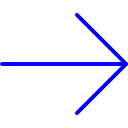
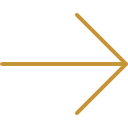
oooo

Changed region(s): [[0.0, 0.0938, 1.0, 0.9062]]

diff --git a/css/bundle-sass.css b/css/bundle-sass.css
@@ -1,1 +1,1 @@
-#info div.section img,#intro,#success,footer div ul li i,section#portfolio ul li div.status i,section#portfolio ul li img{transition:all .2s ease-in}header #mobile-nav span,section#portfolio ul li h2,section.single-project h2{text-transform:uppercase;font-weight:100}header{text-align:center}header nav#main-nav{position:fixed;top:0;width:100%;z-index:9999;font-family:"PT Mono",monospace;letter-spacing:4px}header nav#main-nav a{position:fixed;font-size:.8rem;padding:0 0 10px}@media only screen and (min-width:1224px) and (max-device-width:1824px){header nav#main-nav a{font-size:.7rem}}@media only screen and (min-device-width:768px) and (max-device-width:1024px){header nav#main-nav a{font-size:.7rem}}header nav#main-nav a.top-left{top:40px;left:60px}header nav#main-nav a.top-right{top:40px;right:60px}header nav#main-nav a.bottom-right{bottom:40px;right:60px}header nav#main-nav a.bottom-left{bottom:80px;left:40px;transform:rotate(-90deg)}header #mobile-nav{display:none;padding:5%}header #mobile-nav h1{position:absolute;z-index:1;top:20px;left:20px;color:#fff;text-align:left}header #mobile-nav h1 span{font-size:50%;font-family:Lato,sans-serif;vertical-align:middle}#info div.section article ul,header #mobile-nav span{font-family:"PT Mono",monospace}header #mobile-nav span{margin-top:20px;font-size:1.5rem;line-height:.8}header nav#projects-nav ul img{width:30px;transition:all .2s ease-in}@media only screen and (min-width:1224px) and (max-device-width:1824px){header nav#projects-nav ul img{width:20px}}@media only screen and (min-device-width:320px) and (max-device-width:740px){header{background:#00F;color:#fff;height:100px}header nav#main-nav{display:none}header #mobile-nav{display:block}header nav#projects-nav ul img{width:20px}}header nav#projects-nav ul li.prev{position:fixed;left:5%;top:50%;padding:2%}header nav#projects-nav ul li.prev img:hover{transform:scale(1) rotate(0) translateX(-10px) translateY(0) skewX(0) skewY(0)}header nav#projects-nav ul li.next{position:fixed;right:5%;top:50%;padding:2%}header nav#projects-nav ul li.next img:hover{transform:scale(1) rotate(0) translateX(10px) translateY(0) skewX(0) skewY(0)}#info div.section{height:100vh}@media only screen and (min-device-width:320px) and (max-device-width:740px){#info div.section{height:auto;margin-bottom:50px}}#info div.section:last-child{height:50vh}#info div.section p{position:relative;text-align:justify;margin:10% 0;padding:2%}@media only screen and (min-device-width:320px) and (max-device-width:740px){#info div.section:last-child{height:auto}#info div.section p{margin:5% 0;font-size:95%}}#info div.section p:first-child{margin-top:0}#info div.section p span#brand{font-size:4rem;text-transform:uppercase}#info div.section q{font-style:italic;padding:2%}#info div.section h3,#info div.section h4{display:inline-block;text-transform:uppercase;letter-spacing:2px;line-height:1.5;background:#00F;color:#fff;padding:1%}@media only screen and (min-device-width:320px) and (max-device-width:740px){#info div.section p span#brand{font-size:2rem}#info div.section h3,#info div.section h4{font-size:.8rem}}#info div.section div.vertical-line{width:1px;height:400px;background:#00F;margin:40px auto auto}@media screen and (max-device-width:740px){#info div.section div.vertical-line{display:none}}@media only screen and (min-device-width:768px) and (max-device-width:1024px) and (orientation:portrait){#info div.section div.vertical-line{height:600px}}@media only screen and (min-device-width:768px) and (max-device-width:1024px){#info div.section div.vertical-line{display:none}}#info div.section article ul{letter-spacing:2px;font-size:90%;line-height:2;padding:0}#intro p,#success p,body,html{font-family:Lato,sans-serif}#info div.section img{display:block;margin:0 auto;height:30px}@media only screen and (min-device-width:320px) and (max-device-width:740px){#info div.section article ul{font-size:80%;padding:2%}#info div.section img{height:20px}}@media only screen and (min-width:1224px) and (max-device-width:1824px){#info div.section img{height:25px}}#info div.section img.down{margin-top:10%}#info div.section img.up{position:absolute;left:50%;top:0}#info div.section img.down:hover{transform:scale(1) rotate(0) translateX(0) translateY(10px) skewX(0) skewY(0)}#info div.section img.up:hover,footer div ul li i:hover{transform:scale(1) rotate(0) translateX(0) translateY(-10px) skewX(0) skewY(0)}#error #houston-nav,#error a#houston,#error h1,#error q,#error span#credits,#intro,#success,section#contact{left:50%;transform:translate(-50%,-50%)}#info div.section .img-wrapper{width:100%;margin-top:60px;margin-bottom:50px;display:-ms-flexbox;display:flex;-ms-flex-pack:justify;justify-content:space-between}#info div.section .img-wrapper img{height:30px}@media only screen and (min-device-width:320px) and (max-device-width:740px){#info div.section .img-wrapper{-ms-flex-direction:column;flex-direction:column}#info div.section .img-wrapper img{margin-bottom:40px}section#portfolio{overflow-x:hidden}}footer{display:none!important;position:fixed;top:44%;right:-20px;transform:rotate(90deg);-ms-flex-pack:justify;justify-content:space-between;font-size:1.2rem;letter-spacing:2px}footer p{margin:0}footer div ul{display:-ms-flexbox;display:flex;-ms-flex-pack:justify;justify-content:space-between}footer div ul li{margin-left:80px}section#portfolio ul li{height:100vh;text-align:center;display:inline-block;padding:0 20px;margin:0 40px 50px;transition:all .1s ease-in}section#portfolio ul li:last-child{height:50vh}section#portfolio ul li img{width:100%;border:1px solid #00F}section#portfolio ul li img:hover{box-shadow:0 21px 32px 0 rgba(0,0,255,.57)}section#portfolio ul li h2{letter-spacing:4px;font-size:1.4rem;margin-top:40px}@media only screen and (min-device-width:320px) and (max-device-width:740px){section#portfolio ul li{height:auto;margin:40px 0}section#portfolio ul li img{width:100%}section#portfolio ul li h2{font-size:1rem}}section#portfolio ul li div.status{display:none;text-transform:uppercase;letter-spacing:2px;font-size:80%}section#portfolio ul li div.status i:hover{opacity:.6}section#contact{text-align:center;position:absolute;margin-top:0;top:50%}@media only screen and (min-device-width:320px) and (max-device-width:568px) and (orientation:landscape){section#contact{position:relative;margin-top:25vh}}section#contact ul{line-height:3}section#contact ul li{font-size:1.5rem}section#contact ul li:first-child{font-size:4rem}@media only screen and (min-device-width:320px) and (max-device-width:680px){footer{display:none}section#contact ul{line-height:2}section#contact ul li:first-child{font-size:1.8rem}}@media only screen and (min-device-width:680px) and (max-device-width:768px){section#contact ul li:first-child{font-size:3.5rem}}@media only screen and (min-device-width:768px) and (max-device-width:1024px) and (orientation:portrait){section#contact ul li:first-child{font-size:3.6rem}}section#contact ul li a{border-bottom:2px solid rgba(0,0,255,0)}section#contact ul li a:hover{border-bottom:2px solid #00f}section#contact ul li a#formlink{font-size:1rem;font-style:normal;letter-spacing:4px;color:#fff;background:#00F}@media only screen and (min-device-width:320px) and (max-device-width:736px){section#contact ul li a#formlink{display:none}}section#contact ul li a#formlink:hover{opacity:.7}section#contact ul li i{font-size:1.5rem;margin-top:3%}section#contact ul li i:last-child{font-size:1rem}#intro,#success{width:90%;position:absolute;z-index:-1;top:50%}#intro p,#success p{padding:20px;text-transform:uppercase;font-size:4rem;letter-spacing:2px;text-align:center;line-height:1.5!important;webkit-hyphens:none;-ms-hyphens:none;-webkit-hyphens:none;hyphens:none}@media only screen and (min-device-width:320px) and (max-device-width:740px){#intro,#success{width:100%}#intro p,#success p{font-size:1.5rem;text-align:justify;letter-spacing:2px;padding:5vh}}#intro p i,#success p i{font-size:1rem;vertical-align:super}#intro p span,#success p span{border-right:1px solid #00F;margin-right:2%;padding-left:0}#intro p span:last-child,#success p span:last-child{font-size:60%;border:none}section.single-project{width:70%;text-align:center}section.single-project h2{letter-spacing:4px;font-style:italic;font-size:2rem;text-align:center;margin-bottom:100px}@media only screen and (min-width:1224px) and (max-device-width:1824px){section.single-project h2{font-size:1.5rem}}@media only screen and (min-device-width:320px) and (max-device-width:740px){section.single-project h2{font-size:1.4rem;max-width:90%;margin-bottom:50px}}section.single-project p{font-size:1.3rem;margin-bottom:100px}@media only screen and (min-width:1224px) and (max-device-width:1824px){section.single-project p{font-size:1rem}}@media only screen and (min-width:768px) and (max-device-width:1224px){section.single-project p{font-size:1.3rem}}@media only screen and (min-device-width:320px) and (max-device-width:740px){section.single-project p{font-size:1rem;margin-bottom:50px}}section.single-project img{width:97%;margin:auto auto 25px;padding:1%;border:1px solid #00F}form{width:90vw;display:block;margin:0 auto;padding-top:5vh}form input.field,form label.active,form textarea{color:#00F!important}form textarea:focus{border-bottom:1px solid #00F!important;box-shadow:none!important}form span.lever::after{background:#00F!important}form .switch label input[type=checkbox]:checked+.lever{background-color:#00F!important}form input.valid,form input:focus{border-bottom:1px solid #00F!important;box-shadow:0 1px 0 0 #00F!important}form .btn,form .btn-large .waves-effect,form .waves-light,form button{margin-top:50px;letter-spacing:2px;background-color:#00F!important;transition:all .4s ease-in}form .btn-large .waves-effect:hover,form .btn:hover,form .waves-light:hover,form button:hover{opacity:.5}.flash{border-right:1px solid #00F;margin-right:2%;-moz-animation:flash 1s ease-out;-moz-animation-iteration-count:infinite;-webkit-animation:flash 1s ease-out;-webkit-animation-iteration-count:infinite;-ms-animation:flash 1s ease-out;-ms-animation-iteration-count:infinite}body,html,ul{padding:0;margin:0}.panning{width:auto;height:100%;background:url(../img/stars.png) fixed}#error{width:100vw;height:100vh;background-size:contain;cursor:url(../img/cosmonaut1.cur),pointer}#error h1{position:absolute;z-index:-1;width:100%;top:50%;font-size:2rem}#error q{position:absolute;z-index:-1;top:60%;font-size:1rem}#error span#credits{position:absolute;z-index:-1;top:65%;font-size:.8rem}#error #houston-nav ul li a,#error a#houston{font-size:1rem;text-transform:uppercase;padding:2%;font-style:normal;letter-spacing:4px;color:#fff;background:#00F}#error a#houston{position:absolute;z-index:1;top:80%}#error #houston-nav ul li a:hover,#error a#houston:hover{opacity:.7}#error #houston-nav{display:none;position:absolute;z-index:1;top:50%;width:100%;background:#fff}#error #houston-nav ul{text-align:center;display:-ms-flexbox;display:flex}#error #houston-nav ul li{width:100%;line-height:8}a.active,a.non-active{letter-spacing:2px;text-transform:uppercase}body,html{height:100vh;box-sizing:border-box;color:#00F;font-size:16px;text-rendering:optimizeLegibility;-webkit-font-smoothing:antialiased;-moz-osx-font-smoothing:grayscale}::-webkit-scrollbar{width:8px}::-webkit-scrollbar-track{border-left:1px solid #fff;background-color:transparent}::-webkit-scrollbar-thumb{background-color:#00F}-moz-scrollbars-horizontal{display:none}ul{list-style:none}a{color:inherit;text-decoration:none;transition:all .4s ease-in}a.non-active::after{position:absolute;top:100%;left:0;width:100%;height:1px;background:#00F;content:'';opacity:0;transition:height .3s,opacity .3s,transform .3s;transform:translateY(-10px)}a.non-active:hover{opacity:1}a.non-active:hover::after{height:2px;opacity:1;transform:translateY(0)}a.active{border-bottom:2px solid #00F}h1{text-transform:uppercase;text-align:center;font-size:1.5rem;letter-spacing:4px;color:#00F;margin:0 0 40px}main section{transition:all .2s ease-in;margin-left:auto;margin-right:auto;margin-top:60px;padding:4% 60px;width:70%}@media only screen and (min-width:1824px){main section{max-width:1200px}}main section p{font-size:1.5rem;text-align:left;line-height:1.5;letter-spacing:1px;webkit-hyphens:auto;-ms-hyphens:auto;-webkit-hyphens:auto;hyphens:auto}@media only screen and (min-device-width:320px) and (max-device-width:680px){main section{width:95%;padding:0;margin-top:0}main section p{font-size:1rem;text-align:justify;padding:0 5% 5%;margin:0}}@media only screen and (min-width:1224px) and (max-device-width:1824px){main section p{font-size:1.3rem}}
+#info div.section img,#intro,#success,footer div ul li i,section#portfolio ul li div.status i,section#portfolio ul li img{transition:all .2s ease-in}header{text-align:center}header nav#main-nav{color:#000;position:fixed;top:0;width:100%;z-index:9999;font-family:serif;font-style:italic;letter-spacing:4px}header nav#main-nav a{position:fixed;font-size:.8rem;padding:0 0 10px}@media only screen and (min-width:1224px) and (max-device-width:1824px){header nav#main-nav a{font-size:.7rem}}@media only screen and (min-device-width:768px) and (max-device-width:1024px){header nav#main-nav a{font-size:.7rem}}header nav#main-nav a.top-left{top:40px;left:60px}header nav#main-nav a.top-right{top:40px;right:60px}header nav#main-nav a.bottom-right{bottom:40px;right:60px}header nav#main-nav a.bottom-left{bottom:80px;left:40px;transform:rotate(-90deg)}header #mobile-nav{display:none;padding:5%}header #mobile-nav h1{position:absolute;z-index:1;top:20px;left:20px;color:#fff;text-align:left}header #mobile-nav h1 span{font-size:50%;font-family:serif;vertical-align:middle}header #mobile-nav span{margin-top:20px;font-family:serif;font-size:1.5rem;font-weight:100;line-height:.8;text-transform:uppercase}header nav#projects-nav ul img{width:30px;transition:all .2s ease-in}@media only screen and (min-width:1224px) and (max-device-width:1824px){header nav#projects-nav ul img{width:20px}}@media only screen and (min-device-width:320px) and (max-device-width:740px){header{background:#c59437;color:#fff;height:100px}header nav#main-nav{display:none}header #mobile-nav{display:block}header nav#projects-nav ul img{width:20px}}header nav#projects-nav ul li.prev{position:fixed;left:5%;top:50%;padding:2%}header nav#projects-nav ul li.prev img:hover{transform:scale(1) rotate(0) translateX(-10px) translateY(0) skewX(0) skewY(0)}header nav#projects-nav ul li.next{position:fixed;right:5%;top:50%;padding:2%}header nav#projects-nav ul li.next img:hover{transform:scale(1) rotate(0) translateX(10px) translateY(0) skewX(0) skewY(0)}#info div.section{height:100vh}@media only screen and (min-device-width:320px) and (max-device-width:740px){#info div.section{height:auto;margin-bottom:50px}}#info div.section:last-child{height:50vh}#info div.section p{color:#000;position:relative;text-align:justify;margin:10% 0;padding:2%}@media only screen and (min-device-width:320px) and (max-device-width:740px){#info div.section:last-child{height:auto}#info div.section p{margin:5% 0;font-size:95%}}#info div.section p:first-child{margin-top:0}#info div.section p span#brand{border:5px solid #000;color:#c59437;font-size:4rem;text-transform:uppercase}#info div.section q{font-style:italic;padding:2%}#info div.section h3,#info div.section h4{border:2px solid #000;display:inline-block;text-transform:uppercase;letter-spacing:2px;line-height:1.5;color:#c59437;padding:1%}@media only screen and (min-device-width:320px) and (max-device-width:740px){#info div.section p span#brand{font-size:2rem}#info div.section h3,#info div.section h4{font-size:.8rem}}#info div.section div.vertical-line{width:1px;height:400px;background:#c59437;margin:40px auto auto}@media screen and (max-device-width:740px){#info div.section div.vertical-line{display:none}}@media only screen and (min-device-width:768px) and (max-device-width:1024px) and (orientation:portrait){#info div.section div.vertical-line{height:600px}}@media only screen and (min-device-width:768px) and (max-device-width:1024px){#info div.section div.vertical-line{display:none}}#info div.section article ul{color:#000;letter-spacing:2px;font-family:serif;font-size:90%;line-height:2;padding:0}#info div.section img{display:block;margin:0 auto;height:30px}@media only screen and (min-device-width:320px) and (max-device-width:740px){#info div.section article ul{font-size:80%;padding:2%}#info div.section img{height:20px}}@media only screen and (min-width:1224px) and (max-device-width:1824px){#info div.section img{height:25px}}#info div.section img.down{margin-top:10%}#info div.section img.up{position:absolute;left:50%;top:0}#info div.section img.down:hover{transform:scale(1) rotate(0) translateX(0) translateY(10px) skewX(0) skewY(0)}#info div.section img.up:hover,footer div ul li i:hover{transform:scale(1) rotate(0) translateX(0) translateY(-10px) skewX(0) skewY(0)}#error #houston-nav,#error a#houston,#error h1,#error q,#error span#credits,#intro,#success,section#contact{left:50%;transform:translate(-50%,-50%)}#info div.section .img-wrapper{width:100%;margin-top:60px;margin-bottom:50px;display:-ms-flexbox;display:flex;-ms-flex-pack:justify;justify-content:space-between}#info div.section .img-wrapper img{height:30px}@media only screen and (min-device-width:320px) and (max-device-width:740px){#info div.section .img-wrapper{-ms-flex-direction:column;flex-direction:column}#info div.section .img-wrapper img{margin-bottom:40px}section#portfolio{overflow-x:hidden}}footer{display:none!important;position:fixed;top:44%;right:-20px;transform:rotate(90deg);-ms-flex-pack:justify;justify-content:space-between;font-size:1.2rem;letter-spacing:2px}footer p{margin:0}footer div ul{display:-ms-flexbox;display:flex;-ms-flex-pack:justify;justify-content:space-between}footer div ul li{margin-left:80px}section#portfolio ul li{height:100vh;text-align:center;display:inline-block;padding:0 20px;margin:0 40px 50px;transition:all .1s ease-in}section#portfolio ul li:last-child{height:50vh}section#portfolio ul li img{width:100%;border:1px solid #c59437}section#portfolio ul li img:hover{box-shadow:0 21px 32px 0 rgba(197,148,55,.57)}section#portfolio ul li h2{text-transform:uppercase;letter-spacing:4px;font-weight:100;font-size:1.4rem;margin-top:40px}@media only screen and (min-device-width:320px) and (max-device-width:740px){section#portfolio ul li{height:auto;margin:40px 0}section#portfolio ul li img{width:100%}section#portfolio ul li h2{font-size:1rem}}section#portfolio ul li div.status{display:none;text-transform:uppercase;letter-spacing:2px;font-size:80%}section#portfolio ul li div.status i:hover{opacity:.6}section#contact{text-align:center;position:absolute;margin-top:0;top:50%}@media only screen and (min-device-width:320px) and (max-device-width:568px) and (orientation:landscape){section#contact{position:relative;margin-top:25vh}}section#contact ul{line-height:3}section#contact ul li{font-size:1.5rem}section#contact ul li:first-child{font-size:4rem}@media only screen and (min-device-width:320px) and (max-device-width:680px){footer{display:none}section#contact ul{line-height:2}section#contact ul li:first-child{font-size:1.8rem}}@media only screen and (min-device-width:680px) and (max-device-width:768px){section#contact ul li:first-child{font-size:3.5rem}}@media only screen and (min-device-width:768px) and (max-device-width:1024px) and (orientation:portrait){section#contact ul li:first-child{font-size:3.6rem}}section#contact ul li a{border-bottom:2px solid rgba(197,148,55,0)}section#contact ul li a:hover{border-bottom:2px solid #c59437}section#contact ul li a#formlink{font-size:1rem;font-style:normal;letter-spacing:4px;color:#fff;font-weight:700;background:#c59437}@media only screen and (min-device-width:320px) and (max-device-width:736px){section#contact ul li a#formlink{display:none}}section#contact ul li a#formlink:hover{opacity:.7}section#contact ul li i{font-size:1.5rem;margin-top:3%}section#contact ul li i:last-child{font-size:1rem}#intro,#success{width:90%;position:absolute;z-index:-1;top:50%}#intro p,#success p{padding:20px;font-family:serif;text-transform:uppercase;font-size:4rem;letter-spacing:2px;text-align:center;line-height:1.5!important;webkit-hyphens:none;-ms-hyphens:none;-webkit-hyphens:none;hyphens:none}@media only screen and (min-device-width:320px) and (max-device-width:740px){#intro,#success{width:100%}#intro p,#success p{font-size:1.5rem;text-align:justify;letter-spacing:2px;padding:5vh}}#intro p i,#success p i{font-size:1rem;vertical-align:super}#intro p span,#success p span{border-right:1px solid #c59437;margin-right:2%;padding-left:0}#intro p span:last-child,#success p span:last-child{font-size:60%;border:none}section.single-project{width:70%;text-align:center}section.single-project h2{text-transform:uppercase;letter-spacing:4px;font-style:italic;font-weight:100;font-size:2rem;text-align:center;margin-bottom:100px}@media only screen and (min-width:1224px) and (max-device-width:1824px){section.single-project h2{font-size:1.5rem}}@media only screen and (min-device-width:320px) and (max-device-width:740px){section.single-project h2{font-size:1.4rem;max-width:90%;margin-bottom:50px}}section.single-project p{color:#000;font-size:1.3rem;margin-bottom:100px}@media only screen and (min-width:1224px) and (max-device-width:1824px){section.single-project p{font-size:1rem}}@media only screen and (min-width:768px) and (max-device-width:1224px){section.single-project p{font-size:1.3rem}}@media only screen and (min-device-width:320px) and (max-device-width:740px){section.single-project p{font-size:1rem;margin-bottom:50px}}section.single-project img{width:97%;margin:auto auto 25px;padding:1%;border:1px solid #c59437}form{width:90vw;display:block;margin:0 auto;padding-top:5vh}form input.field,form label.active,form textarea{color:#c59437!important}body,h1,html{color:#c59437}form textarea:focus{border-bottom:1px solid #c59437!important;box-shadow:none!important}form span.lever::after{background:#c59437!important}form .switch label input[type=checkbox]:checked+.lever{background-color:#c59437!important}form input.valid,form input:focus{border-bottom:1px solid #c59437!important;box-shadow:0 1px 0 0 #c59437!important}form .btn,form .btn-large .waves-effect,form .waves-light,form button{margin-top:50px;letter-spacing:2px;background-color:#c59437!important;transition:all .4s ease-in}form .btn-large .waves-effect:hover,form .btn:hover,form .waves-light:hover,form button:hover{opacity:.5}.flash{border-right:1px solid #c59437;margin-right:2%;-moz-animation:flash 1s ease-out;-moz-animation-iteration-count:infinite;-webkit-animation:flash 1s ease-out;-webkit-animation-iteration-count:infinite;-ms-animation:flash 1s ease-out;-ms-animation-iteration-count:infinite}body,html,ul{padding:0;margin:0}.panning{width:auto;height:100%;background:url(../img/stars.png) fixed}#error{width:100vw;height:100vh;background-size:contain;cursor:url(../img/cosmonaut1.cur),pointer}#error h1{position:absolute;z-index:-1;width:100%;top:50%;font-size:2rem}#error q{position:absolute;z-index:-1;top:60%;font-size:1rem}#error span#credits{position:absolute;z-index:-1;top:65%;font-size:.8rem}#error #houston-nav ul li a,#error a#houston{font-size:1rem;text-transform:uppercase;padding:2%;font-style:normal;letter-spacing:4px;color:#fff;background:#c59437}#error a#houston{position:absolute;z-index:1;top:80%}#error #houston-nav ul li a:hover,#error a#houston:hover{opacity:.7}#error #houston-nav{display:none;position:absolute;z-index:1;top:50%;width:100%;background:#fff}#error #houston-nav ul{text-align:center;display:-ms-flexbox;display:flex}#error #houston-nav ul li{width:100%;line-height:8}a.active,a.non-active{letter-spacing:2px;text-transform:uppercase}body,html{height:100vh;box-sizing:border-box;font-family:serif;font-size:16px;text-rendering:optimizeLegibility;-webkit-font-smoothing:antialiased;-moz-osx-font-smoothing:grayscale}::-webkit-scrollbar{width:8px}::-webkit-scrollbar-track{border-left:1px solid #fff;background-color:transparent}::-webkit-scrollbar-thumb{background-color:#c59437}-moz-scrollbars-horizontal{display:none}ul{list-style:none}a{color:inherit;text-decoration:none;transition:all .4s ease-in}a.non-active::after{position:absolute;top:100%;left:0;width:100%;height:1px;background:#c59437;content:'';opacity:0;transition:height .3s,opacity .3s,transform .3s;transform:translateY(-10px)}a.non-active:hover{opacity:1}a.non-active:hover::after{height:2px;opacity:1;transform:translateY(0)}a.active{border-bottom:2px solid #c59437}h1{text-transform:uppercase;text-align:center;font-size:1.5rem;letter-spacing:4px;margin:0 0 40px}#frame{width:75vw;height:75vh;border:10px solid #000;position:fixed;left:50%;top:50%;transform:translate(-50%,-50%)}main section{transition:all .2s ease-in;margin-left:auto;margin-right:auto;margin-top:60px;padding:4% 60px;width:70%}@media only screen and (min-width:1824px){main section{max-width:1200px}}main section p{font-size:1.5rem;text-align:left;line-height:1.5;letter-spacing:1px;webkit-hyphens:auto;-ms-hyphens:auto;-webkit-hyphens:auto;hyphens:auto}@media only screen and (min-device-width:320px) and (max-device-width:680px){main section{width:95%;padding:0;margin-top:0}main section p{font-size:1rem;text-align:justify;padding:0 5% 5%;margin:0}}@media only screen and (min-width:1224px) and (max-device-width:1824px){main section p{font-size:1.3rem}}

diff --git a/sass/partials/_info.scss b/sass/partials/_info.scss
@@ -14,6 +14,7 @@
       }
     }
     p {
+      color: #000;
       position: relative;
       text-align: justify;
       margin: 10% 0;
@@ -26,6 +27,8 @@
         margin-top: 0;
       }
       span#brand {
+        border: 5px solid #000;
+        color: $mainColor;
         font-size: 4rem;
         text-transform: uppercase;
         @media only screen and (min-device-width : 320px) and (max-device-width : 740px) {
@@ -38,12 +41,13 @@
       padding: 2%;
     }
     h3, h4 {
+      border: 2px solid #000;
       display: inline-block;
       text-transform: uppercase;
       letter-spacing: 2px;
       line-height: 1.5;
-      background: $mainColor;
-      color: #fff;
+      // background: $mainColor;
+      color: $mainColor;
       padding: 1%;
       @media only screen and (min-device-width : 320px) and (max-device-width : 740px) {
       font-size: .8rem;
@@ -67,6 +71,7 @@
     }
     article {
       ul {
+        color: #000;
         letter-spacing: 2px;
         padding: 2%;
         font-family: $navFont;

diff --git a/info.html b/info.html
@@ -61,12 +61,14 @@
 
     <div id="fullpage">
 
+      <div id="frame"></div>
+
       <section id="info">
 
-          <div class="section animated fadeIn" data-anchor="firstPage">
+          <div class="section animated fadeIn">
 
               <p class="animate" data-animate="fadeIn" data-duration="2.0s" data-delay="0.1s" data-offset="0">
-                  <span id="brand">a+f</span><br>
+                  <span id="brand" class="animate" data-animate="fadeInUp" data-duration="2.0s" data-delay="0.1s" data-offset="0">a+f</span><br>
                   conçoit et façonne des sites web sur mesure et adaptés à tous les supports numériques.
                   Nous allions le design aux dernières technologies afin de réaliser des expériences élégantes et fonctionnelles, avec pour maîtres mots : simplicité, éloquence et soucis du détail.
                   <br>

diff --git a/sass/partials/_projets.scss b/sass/partials/_projets.scss
@@ -39,9 +39,9 @@ section#portfolio {
         -o-transition: all 200ms ease-in;
         transition: all 200ms ease-in;
         &:hover {
-          -webkit-box-shadow: 0px 21px 32px 0px rgba(0,0,255,0.57);
-          -moz-box-shadow: 0px 21px 32px 0px rgba(0,0,255,0.57);
-          box-shadow: 0px 21px 32px 0px rgba(0,0,255,0.57);
+          -webkit-box-shadow: 0px 21px 32px 0px rgba(197, 148, 55, 0.57);
+          -moz-box-shadow: 0px 21px 32px 0px rgba(197, 148, 55, 0.57);
+          box-shadow: 0px 21px 32px 0px rgba(197, 148, 55, 0.57);
         }
         @media only screen and (min-device-width : 320px) and (max-device-width : 740px) {
           width: 100%;

diff --git a/sass/partials/_contact.scss b/sass/partials/_contact.scss
@@ -38,9 +38,9 @@ section#contact {
       a {
         // text-transform: uppercase;
         // font-style: italic;
-        border-bottom: 2px solid rgba(0, 0, 255, 0);
+        border-bottom: 2px solid rgba(197, 148, 55, 0);
         &:hover {
-          border-bottom: 2px solid rgba(0, 0, 255, 1);
+          border-bottom: 2px solid rgba(197, 148, 55, 1);
         }
       }
       a#formlink {
@@ -48,6 +48,7 @@ section#contact {
         font-style: normal;
         letter-spacing: 4px;
         color: #fff;
+        font-weight: bold;
         background: $mainColor;
         /* ----------- Mobile ----------- */
 

diff --git a/sass/main.scss b/sass/main.scss
@@ -17,7 +17,6 @@ html, body {
   box-sizing: border-box;
   font-family: $mainFont;
   color: $mainColor;
-  // background: #000;
   font-size: 16px;
   text-rendering: optimizeLegibility;
   -webkit-font-smoothing: antialiased;
@@ -108,6 +107,18 @@ h1 {
   letter-spacing: 4px;
   color: $mainColor;
   margin: 0 0 40px 0;
+}
+
+#frame {
+  width: 75vw;
+  height: 75vh;
+  border: 10px solid #000;
+  position: fixed;
+  left: 50%;
+  top: 50%;
+  transform: translate(-50%, -50%); /* Yep! */
+
+
 }
 
 main {

diff --git a/sass/partials/_header.scss b/sass/partials/_header.scss
@@ -8,11 +8,13 @@ header {
   height: 100px;
   }
   nav#main-nav {
+    color: #000;
     position: fixed;
     top: 0;
     width: 100%;
     z-index: 9999;
     font-family: $navFont;
+    font-style: italic;
     letter-spacing: 4px;
     @media only screen and (min-device-width : 320px) and (max-device-width : 740px) {
     display: none;

diff --git a/sass/partials/_mixins.scss b/sass/partials/_mixins.scss
@@ -1,6 +1,9 @@
-$mainColor: #0000FF; /* C59438 */
-$navFont: 'PT Mono', monospace;
-$mainFont: 'Lato', sans-serif;
+// $mainColor: #0000FF; /* C59438 */
+$mainColor: #c59437;
+// $navFont: 'PT Mono', monospace;
+$navFont: serif;
+// $mainFont: 'Lato', sans-serif;
+$mainFont: serif;
 
 .flash {
   border-right: 1px solid $mainColor;

diff --git a/css/ap-fullscreen-modal.css b/css/ap-fullscreen-modal.css
@@ -102,7 +102,7 @@ html.apfm-open > body {
 	width: 100%;
 	height: 2px;
 	/*background-color: #00019C;*/
-	background-color: #0000FF;
+	background-color: #c59437;
 	/*background-color: #fff;*/
 
 	-webkit-transform: rotate(45deg);

diff --git a/sass/partials/_singleproject.scss b/sass/partials/_singleproject.scss
@@ -21,6 +21,7 @@ section.single-project {
     }
   }
   p {
+    color: #000;
     font-size: 1.3rem;
     margin-bottom: 100px;
     @media only screen and (min-width : 1224px) and (max-device-width : 1824px){

diff --git a/contact.html b/contact.html
@@ -63,6 +63,8 @@
 <!--**** MAIN CONTENT ****-->
 <main>
 
+  <div id="frame"></div>
+
     <!--**** CONTACT ****-->
     <section id="contact" class="animated fadeIn">
 

diff --git a/portfolio.html b/portfolio.html
@@ -60,6 +60,8 @@
 <!--**** MAIN CONTENT ****-->
 <main class="animated fadeIn">
 
+  <div id="frame"></div>
+
     <section id="portfolio">
 
         <ul>
